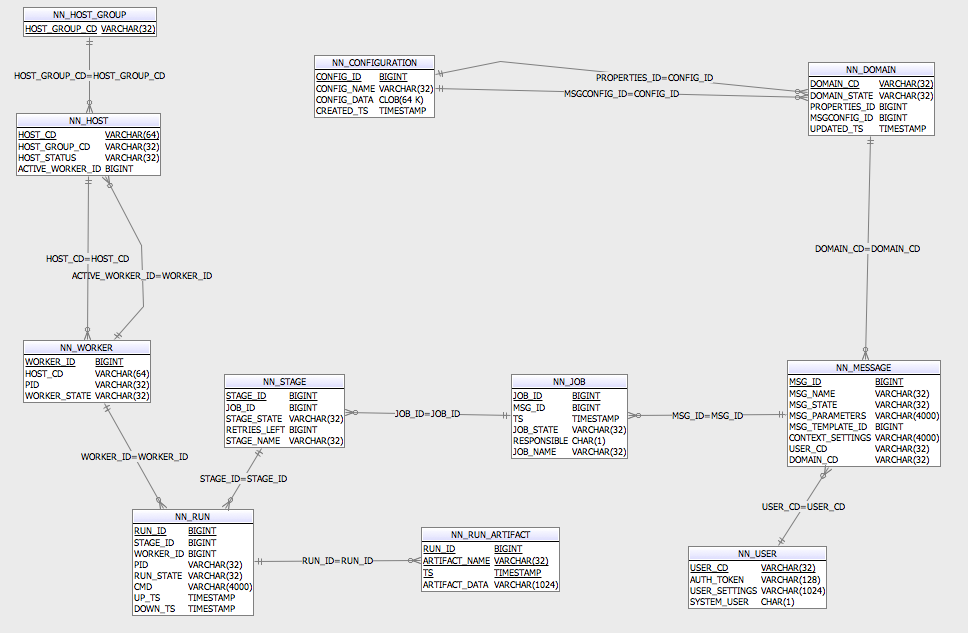
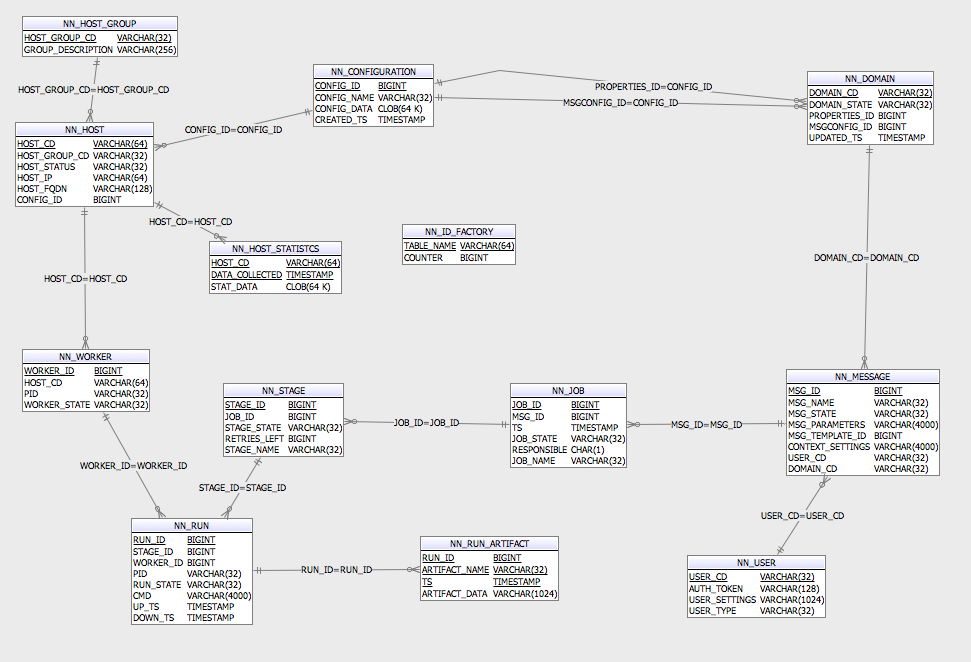
data model changes

diff --git a/src/org/beequeue/host/CapacityRatio.java b/src/org/beequeue/host/CapacityRatio.java
@@ -1,0 +1,14 @@
+package org.beequeue.host;
+
+public class CapacityRatio {
+	public double value;
+	public double max;
+	
+	public double ratio(){
+		return value/max;
+	}
+	
+	public double percent(){
+		return ratio() * 100;
+	}
+}

diff --git a/src/org/beequeue/host/Host.java b/src/org/beequeue/host/Host.java
@@ -1,7 +1,10 @@
 package org.beequeue.host;
 
+
 public class Host {
 	public String hostName;
-	
-
+	public String fqdn;
+	public String ip;
+	public HostGroup group = new HostGroup();
+	public HostStatistcs stat;
 }

diff --git a/src/org/beequeue/worker/Worker.java b/src/org/beequeue/worker/Worker.java
@@ -1,0 +1,8 @@
+package org.beequeue.worker;
+
+public class Worker {
+	public long id;
+	public String hostName;
+	public long pid;
+	public WorkerState state;
+}

diff --git a/src/org/beequeue/host/HostStatistcs.java b/src/org/beequeue/host/HostStatistcs.java
@@ -1,0 +1,6 @@
+package org.beequeue.host;
+
+public class HostStatistcs {
+	public CapacityRatio cpu;
+	public CapacityRatio memory;
+}
